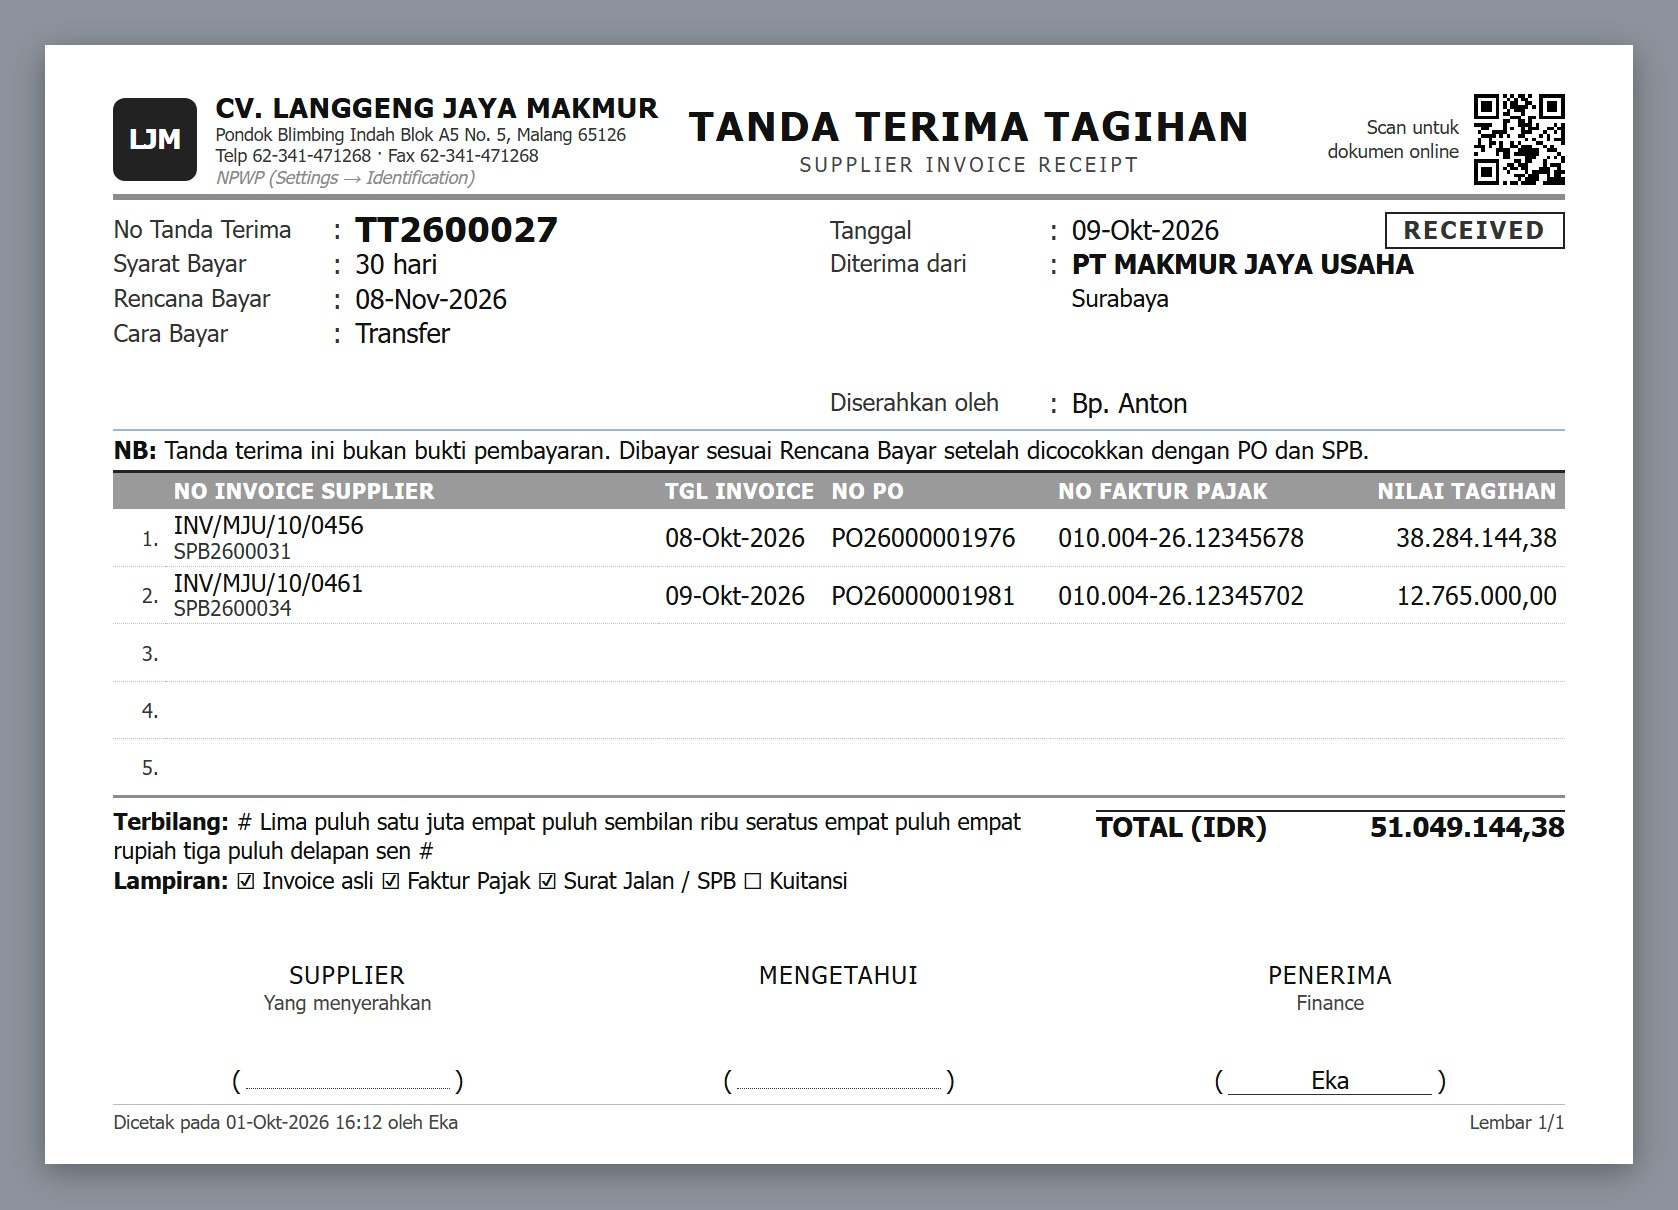
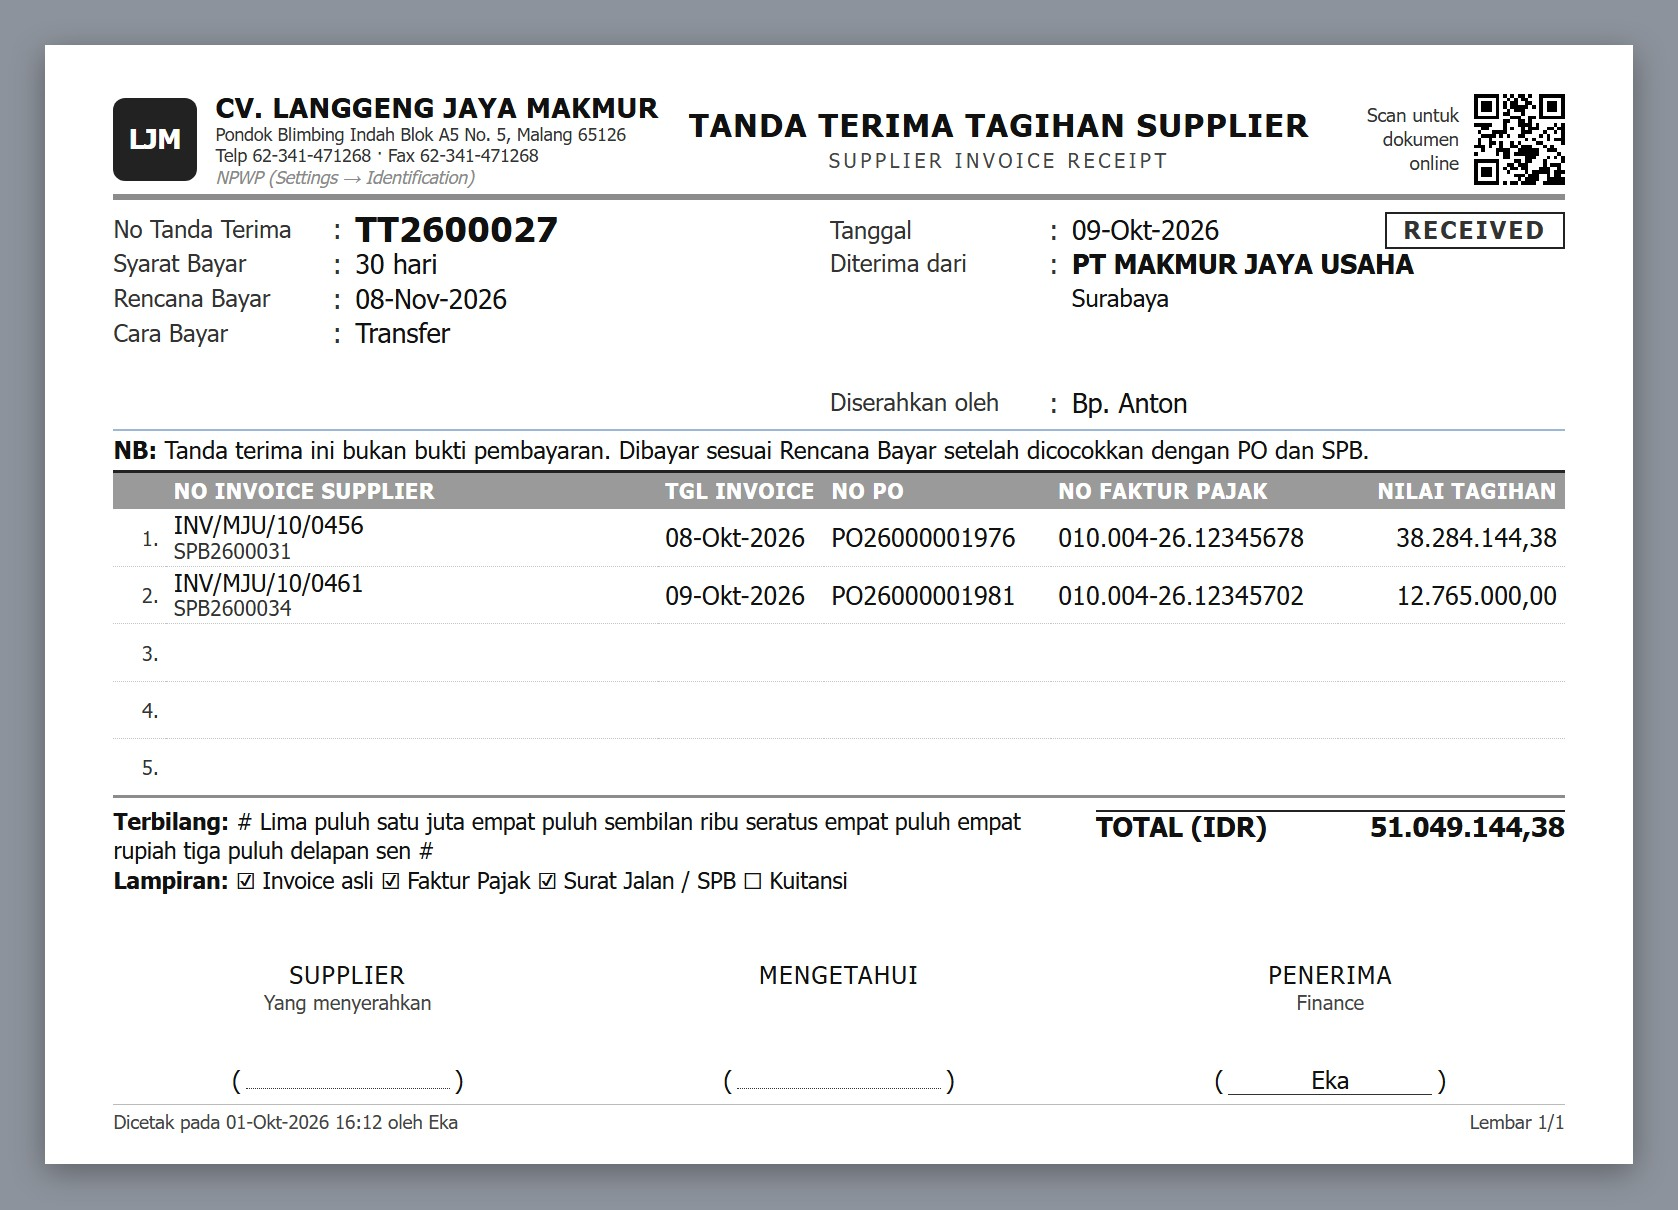
Print mockups: QC Inspection for incoming goods, supplier invoice receipt title with Supplier, stock-in print dropped (SPB is the one receipt document)

Changed region(s): [[0.4029, 0.0917, 0.7747, 0.1529], [0.8057, 0.0917, 0.8677, 0.1529]]

diff --git a/docs/mockups/print_doc/documents.js b/docs/mockups/print_doc/documents.js
@@ -398,25 +398,30 @@ PrintDoc.register(class PettyCash extends PrintDoc {
 // ===== Tahap 3 (user 2026-10-02: "yang belum didesain saja"). Dokumen transaksional yang belum punya cetakan sama sekali.
 // Isi mengikuti field layar / tabel aplikasi; belum ada form kertas acuan. Menunggu review user; belum A. =====
 
-// Gudang (Bahan Baku / Barang Jadi / Setengah Jadi memakai format yang sama; Kategori di blok atas). Tanpa harga.
-// Nama dokumen barang masuk = SPB, Surat Penerimaan Barang (user 2026-10-02).
-PrintDoc.register(class StockIn extends PrintDoc {
-    static title = 'SURAT PENERIMAAN BARANG';
-    static subtitle = 'SPB &middot; Stock In';
+// Barang masuk TIDAK punya cetakan sendiri (user 2026-10-02): yang diterima = yang masuk gudang, cukup satu dokumen, yaitu
+// SPB (kelas GoodsReceipt). Yang diperlukan adalah QC Inspection untuk barang yang masuk.
+PrintDoc.register(class QcInspection extends PrintDoc {
+    static title = 'QC INSPECTION';
+    static subtitle = 'Pemeriksaan Barang Masuk &middot; Internal';
     static numberLabel = 'No SPB';
     static refs = [
-        {key: 'category', label: 'Kategori'},
+        {key: 'po_no', label: 'No PO'},
+        {key: 'supplier_dn', label: 'No SJ Pengirim'},
         {key: 'warehouse', label: 'Gudang'},
-        {key: 'source', label: 'Sumber'},
-        {key: 'ref_no', label: 'Referensi'},
+        {key: 'checked_at', label: 'Waktu Periksa'},
+        {key: 'decision', label: 'Keputusan'},
     ];
-    static partyLabel = 'Diterima dari';
-    static nb = '<b>NB:</b>&nbsp;JUMLAH = jumlah yang masuk stok. Dokumen gudang, tanpa harga.';
-    static extra = [{key: 'code', label: 'KODE', width: 20}, {key: 'lot_no', label: 'LOT / ROLL', width: 22}, {key: 'location', label: 'LOKASI', width: 18}, {key: 'remark', label: 'KETERANGAN', width: 24}];
-    static receivers = [['Penyerah', 'Pengirim / Produksi']];
+    static partyLabel = 'Supplier';
+    static side = {key: 'contact', label: 'Telp / UP'};
+    static nb = '<b>NB:</b>&nbsp;JUMLAH = jumlah datang. Barang DITOLAK tidak masuk stok dan dikembalikan lewat Retur Pembelian.';
+    static extra = [{key: 'qty_check', label: 'CEK JML', width: 14}, {key: 'quality', label: 'MUTU', width: 15}, {key: 'accepted', label: 'DITERIMA', width: 17, type: 'money'},
+        {key: 'rejected', label: 'DITOLAK', width: 16, type: 'money'}, {key: 'qc_note', label: 'CATATAN QC', width: 22, wrap: true}];
+    static internalLabels = ['Gudang', 'Purchasing', 'QC'];
+    static internal = ['Mengetahui', 'Menyetujui', 'Pemeriksa'];
 });
 
-PrintDoc.register(class StockOut extends PrintDoc.registry.StockIn {
+// Gudang (Bahan Baku / Barang Jadi / Setengah Jadi memakai format yang sama; Kategori di blok atas). Tanpa harga.
+PrintDoc.register(class StockOut extends PrintDoc {
     static title = 'BUKTI BARANG KELUAR';
     static subtitle = 'Stock Out &middot; Internal';
     static numberLabel = 'No Dokumen';
@@ -429,13 +434,13 @@ PrintDoc.register(class StockOut extends PrintDoc.registry.StockIn {
     ];
     static partyLabel = 'Diserahkan ke';
     static nb = '<b>NB:</b>&nbsp;JUMLAH = jumlah yang keluar dari stok. Sisa pemakaian dikembalikan lewat Retur dari Produksi.';
+    static extra = [{key: 'code', label: 'KODE', width: 20}, {key: 'lot_no', label: 'LOT / ROLL', width: 22}, {key: 'location', label: 'LOKASI', width: 18}, {key: 'remark', label: 'KETERANGAN', width: 24}];
     static receivers = [['Penerima', 'Produksi']];
 });
 
-PrintDoc.register(class StockReturn extends PrintDoc.registry.StockIn {
+PrintDoc.register(class StockReturn extends PrintDoc.registry.StockOut {
     static title = 'RETUR DARI PRODUKSI';
     static subtitle = 'Return from Production &middot; Internal';
-    static numberLabel = 'No Dokumen';
     static refs = [
         {key: 'category', label: 'Kategori'},
         {key: 'warehouse', label: 'Gudang'},
@@ -534,7 +539,7 @@ PrintDoc.register(class JournalVoucher extends PrintDoc {
 // Tanda terima tagihan supplier (tukar faktur). Koreksi user 2026-10-02: yang dicetak bukan "Tagihan Supplier" melainkan
 // tanda terimanya. Satu baris = satu invoice supplier yang diserahkan; lembar ini dibawa pulang supplier sebagai bukti.
 PrintDoc.register(class SupplierInvoiceReceipt extends PrintDoc {
-    static title = 'TANDA TERIMA TAGIHAN';
+    static title = 'TANDA TERIMA TAGIHAN SUPPLIER';   // huruf judul dikecilkan di printdoc.css supaya muat di samping kop PPN
     static subtitle = 'Supplier Invoice Receipt';
     static numberLabel = 'No Tanda Terima';
     static refs = [

diff --git a/docs/mockups/print_doc/samples.js b/docs/mockups/print_doc/samples.js
@@ -240,11 +240,11 @@ Object.assign(SAMPLES, {
 // ===== Tahap 3: data contoh (angka dan nama adalah contoh) =====
 const MJU = {name: 'PT MAKMUR JAYA USAHA', lines: ['Surabaya']}, MJU_UP = 'Bp. Anton (Sales)';
 Object.assign(SAMPLES, {
-    StockIn: {
-        data: {...PRINTED, number: 'SPB2600031', date: '2026-10-08', status: 'POSTED', category: 'Bahan Baku', warehouse: 'GD-BB · Gudang Bahan Baku', source: 'Pembelian', ref_no: 'PO26000001976',
-            createdBy: 'Yuna', party: MJU,
-            rows: [{name: 'DC 310 IKA DA GR 79 x 109 CM', qty: 22, unit: 'RIM', code: 'PZ00083', lot_no: 'R8-2610', location: 'A-01-02'},
-                {name: 'IVORY 300 79 X 109', qty: 40, unit: 'RIM', code: 'PYJ31', lot_no: 'R8-2611', location: 'A-01-03'}]},
+    QcInspection: {
+        data: {...PRINTED, number: 'SPB2600031', date: '2026-10-08', status: 'QC DONE', po_no: 'PO26000001976', supplier_dn: 'SJ-MJU-0871', warehouse: 'GD-BB · Gudang Bahan Baku', checked_at: '08-Okt-2026 10:40',
+            decision: 'Diterima sebagian', contact: MJU_UP, createdBy: 'Yuna', party: MJU,
+            rows: [{name: 'DC 310 IKA DA GR 79 x 109 CM', sub: 'Lot R8-2610', qty: 22, unit: 'RIM', qty_check: 'OK', quality: 'Sebagian', accepted: 21, rejected: 1, qc_note: 'Sobek di sisi luar'},
+                {name: 'IVORY 300 79 X 109', sub: 'Lot R8-2611', qty: 40, unit: 'RIM', qty_check: 'OK', quality: 'Lulus', accepted: 40, rejected: 0}]},
         more: [],
     },
     StockOut: {

diff --git a/docs/mockups/print_doc/printdoc.css b/docs/mockups/print_doc/printdoc.css
@@ -107,3 +107,5 @@ table.items{width:100%;border-collapse:collapse;border-top:.5mm solid #222;borde
 .legend p{break-inside:avoid;padding-left:6mm;position:relative}
 .legend p i{position:absolute;left:0;top:.4mm;width:4.2mm;height:4.2mm;border-radius:50%;background:#e11d2e;color:#fff;font:700 6.8pt Tahoma,sans-serif;
     display:flex;align-items:center;justify-content:center}
+/* Judul panjang: huruf lebih kecil supaya muat di samping kop (user 2026-10-02) */
+.doc-SupplierInvoiceReceipt .kop h1{font-size:12pt;letter-spacing:.04em}
